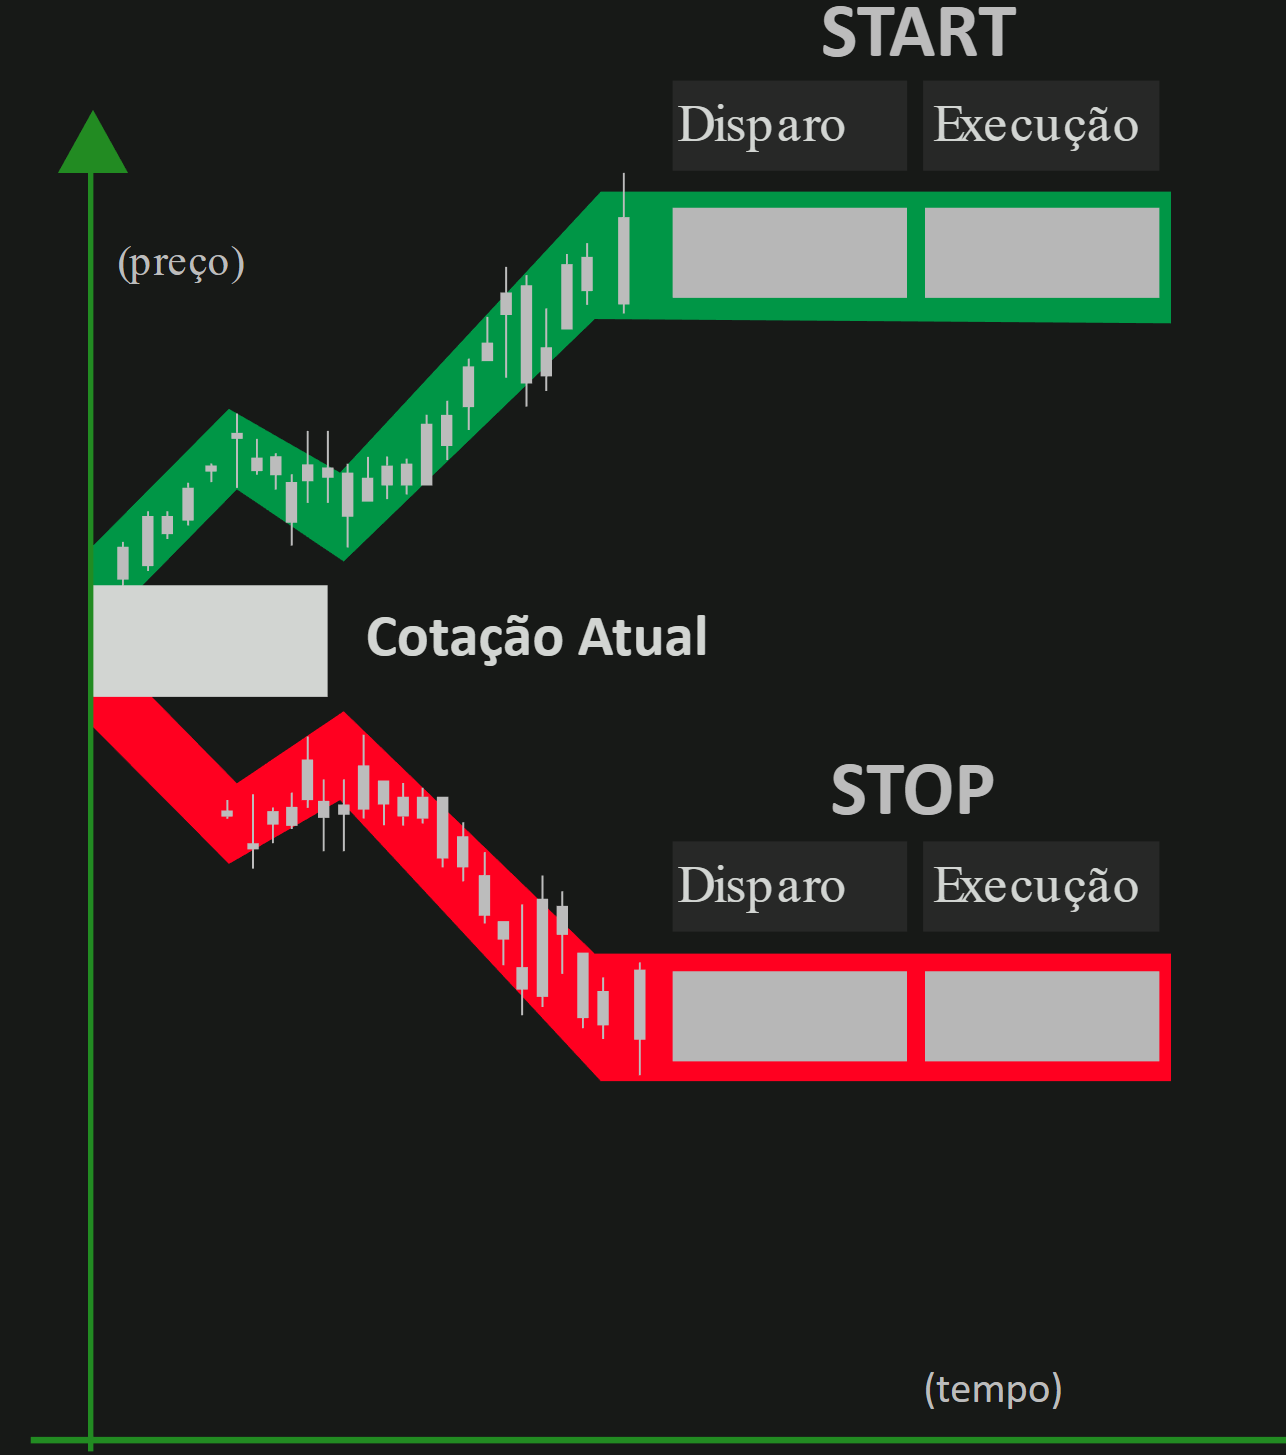
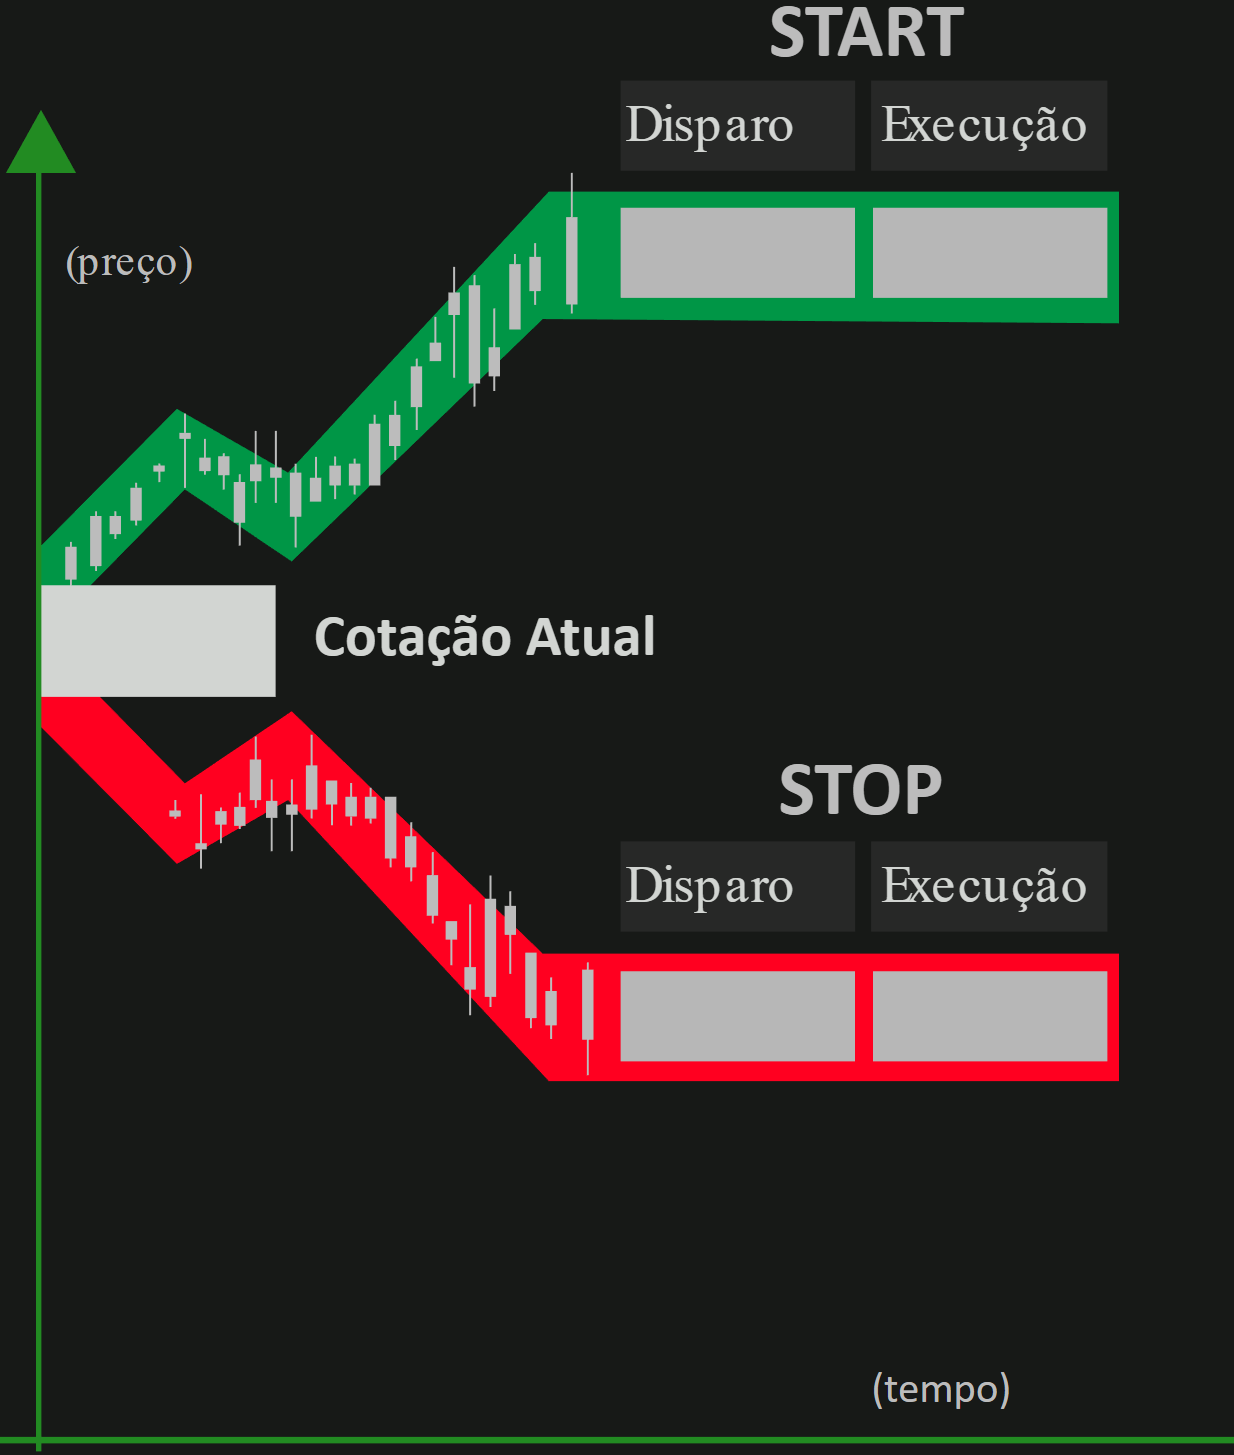
tamanho dos forms iguais.

diff --git a/src/css/FormInterno.css b/src/css/FormInterno.css
@@ -10,8 +10,8 @@
 }
 
 .colFormInterno {
-  max-width: 355px;
-  min-width: 355px;
+  max-width: 339px;
+  min-width: 339px;
   padding-right: 2px;
 }
 
@@ -76,6 +76,7 @@
 
 .colValidadeCheck {
   padding-top: 0.2rem;
+  padding-right: 0;
 }
 
 .rowFormValidade {
@@ -92,7 +93,7 @@
 
 .colDateIcon {
   padding-left: 0.5rem;
-  color: var(--cor-cinza-botoes)
+  color: var(--cor-cinza-botoes);
 }
 
 .rowAssinaturaEletronica {

diff --git a/src/components/forms/compra_StartStop/GraficoCompraStartStop.js b/src/components/forms/compra_StartStop/GraficoCompraStartStop.js
@@ -15,7 +15,7 @@ class GraficoCompraStartStop extends React.Component {
     return (
       <Col className="colGrafico">
         <div className="imgContainer">
-          <img src={img} className="imgChart" alt="" />
+          <img src={img} className="imgChart imgCST" alt="" />
           <Form>
             <Form.Control
               type="number"

diff --git a/src/css/FormConfigurar.css b/src/css/FormConfigurar.css
@@ -2,8 +2,8 @@
   max-width: 270px !important;
   position: relative;
   left: 99%;
-  top: -450px;
-  padding-bottom: 1.5rem;
+  top: -430px;
+  padding-bottom: 1.85rem;
 }
 
 .configurarheader {
@@ -15,7 +15,7 @@
 }
 
 .imgConfigurar {
-  max-width: 81%;
+  max-width: 75%;
   display: flex;
 }
 .switchGrafico {

diff --git a/src/css/FormGenerico.css b/src/css/FormGenerico.css
@@ -15,7 +15,7 @@
   border: 0.4rem solid var(--cor-borda);
   color: var(--cor-texto);
   font-size: 0.9rem;
-  margin-top: 10px;
+  margin-top: 5px;
   margin-right: 10px;
 }
 

diff --git a/src/css/CompraStartStop.css b/src/css/CompraStartStop.css
@@ -1,6 +1,6 @@
 #comprastartstop {
-  min-width: 680px;
-  max-width: 680px;
+  min-width: 645px;
+  max-width: 645px;
 }
 
 #GainDisparoGrafico_CST {

diff --git a/src/css/App.css b/src/css/App.css
@@ -7,7 +7,7 @@
   align-items: center;
   justify-content: space-evenly;
   color: white;
-  padding-top: 0.5rem
+  padding-top: 5px
 }
 
 .appbody {

diff --git a/src/css/CompraMercado.css b/src/css/CompraMercado.css
@@ -1,6 +1,6 @@
 #compramercado {
-  min-width: 680px;
-  max-width: 680px;
+  max-width: 713px;
+  max-height: 430px;
 }
 
 #GainDisparoGrafico_CM {

diff --git a/src/css/Grafico.css b/src/css/Grafico.css
@@ -8,6 +8,10 @@
   display: block;
 }
 
+.imgCST {
+  height: 319px;
+}
+
 .colGrafico {
   display: flex;
   align-items: center;

diff --git a/src/css/CompraLimitada.css b/src/css/CompraLimitada.css
@@ -1,6 +1,5 @@
 #compralimitada {
-  min-width: 680px;
-  max-width: 680px;
+  max-width: 713px;
 }
 
 #GainDisparoGrafico_CL {

diff --git a/src/css/CompraAgendada.css b/src/css/CompraAgendada.css
@@ -1,5 +1,5 @@
 #compraagendada {
-  max-width: 680px;
+  max-width: 713px;
 }
 
 #GainDisparoGrafico_CA {
